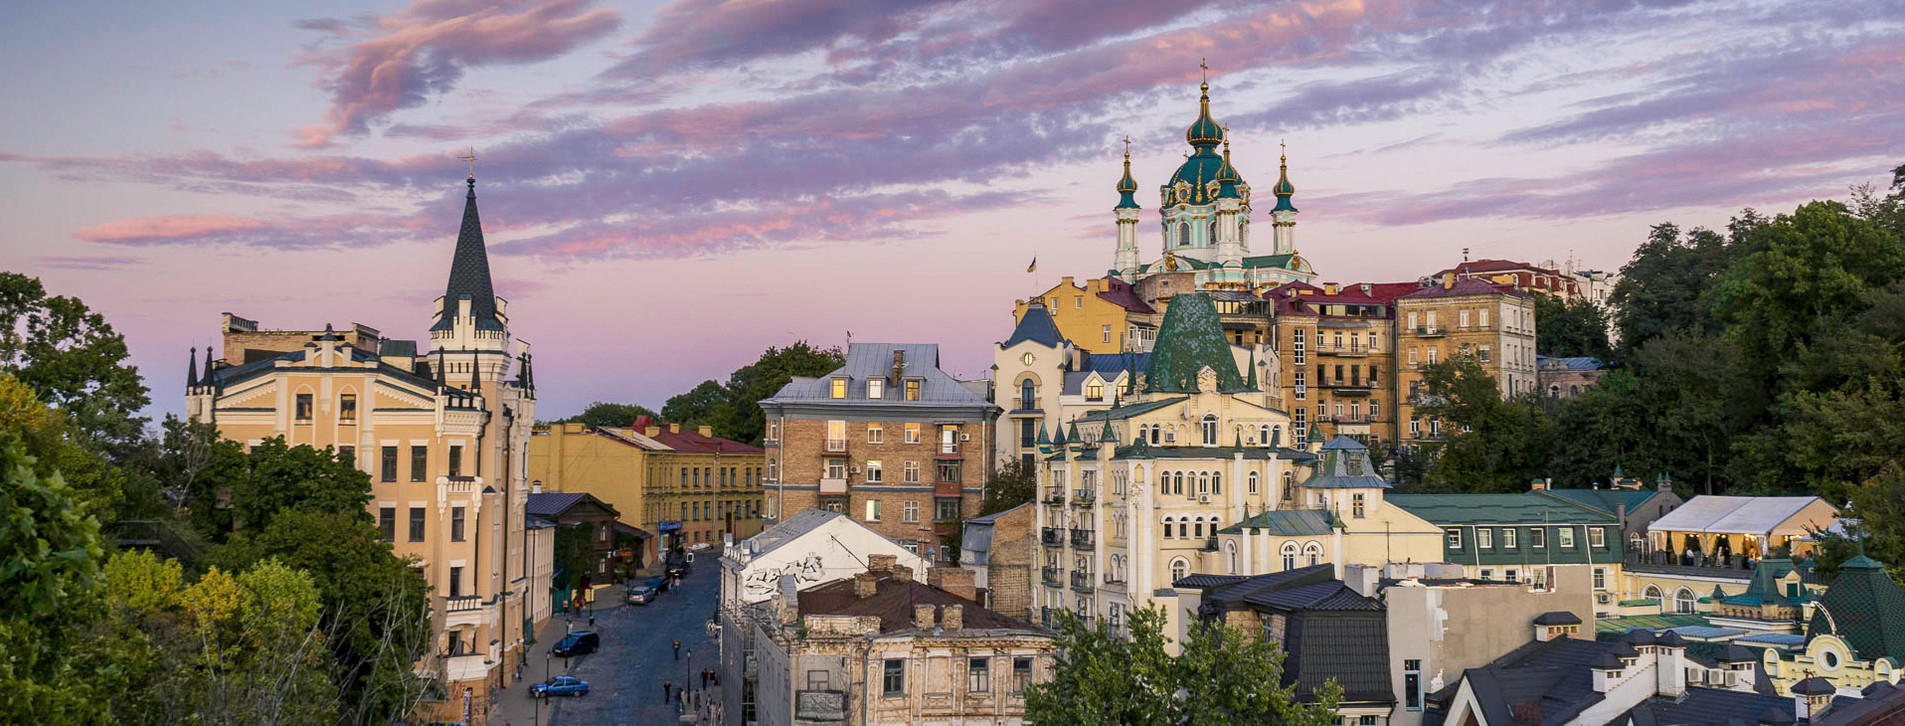
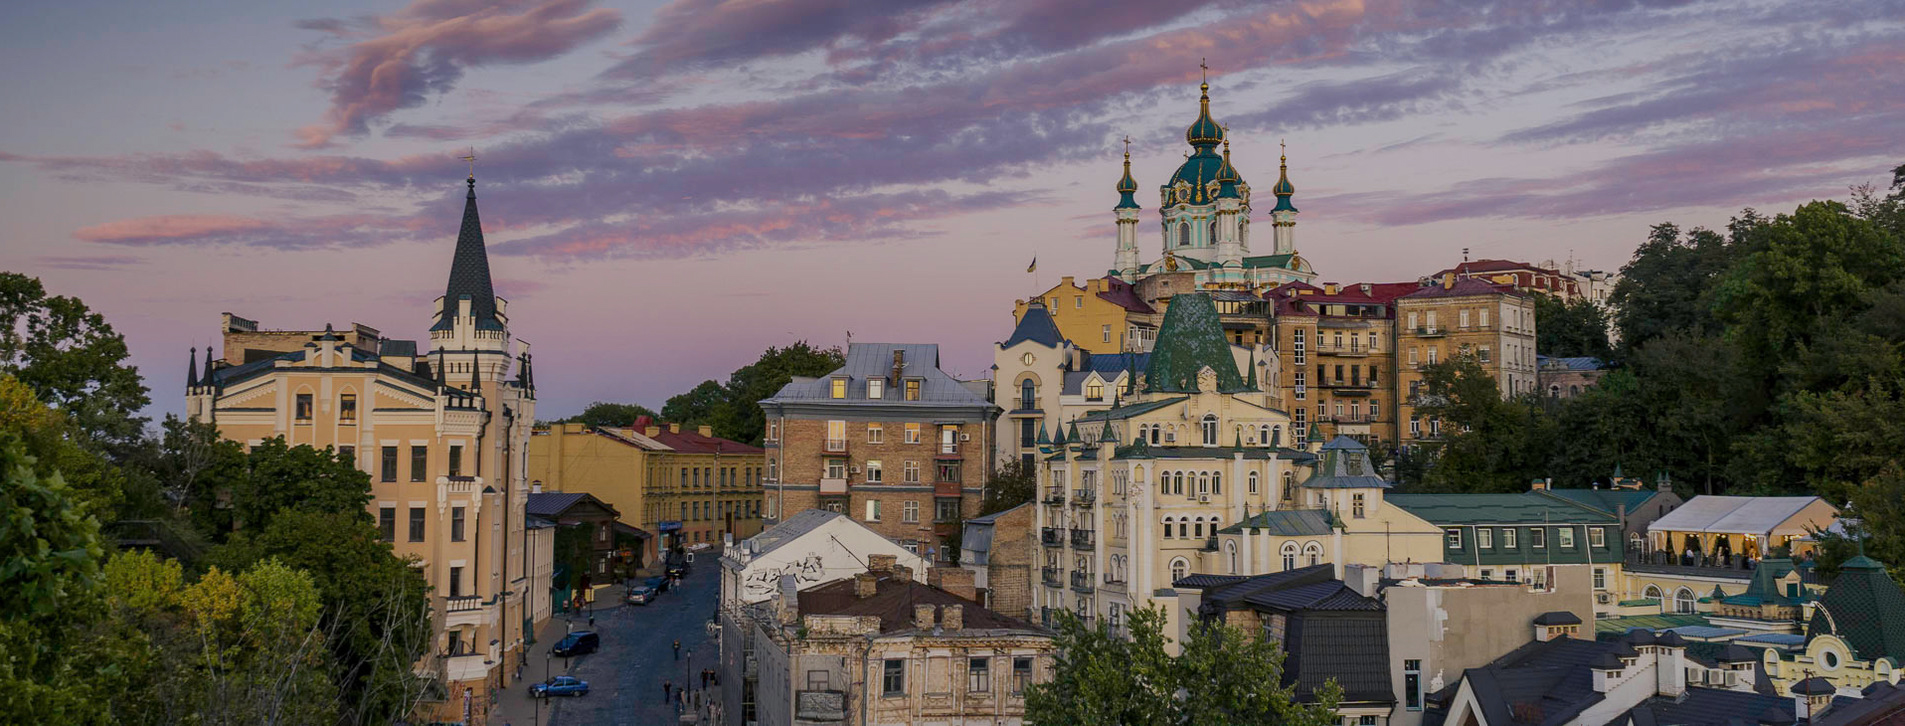
Test_002

diff --git a/src/main/webapp/resources/css/Start_List_Test.css b/src/main/webapp/resources/css/Start_List_Test.css
@@ -352,8 +352,6 @@ hr {
     margin-top: 25px;
     font-family: sans-serif;
     float: inherit;
-    /*margin-top: 180px;*/
-
 }
 
 /* Cherch  */
@@ -367,7 +365,7 @@ hr {
     background-size: 100%;
     background-repeat: no-repeat;
     /*background-position-x: -80px;*/
-    color: white;
+    /*color: white;*/
     /*-webkit-text-stroke: 1px black;*/
     width: 100%;
     height: 80%;
@@ -377,9 +375,9 @@ hr {
     /*http://css.yoksel.ru/background-blend-mode!*/
     /*background-color: #848484;*/
     /*background-color: #A4A4A4;*/
-    background-color: #151515;
-    background-repeat: no-repeat;;
-    background-blend-mode: unset;
+    /*background-color: #151515;*/
+    background-repeat: no-repeat;
+    /*background-blend-mode: color-burn;*/
     border-radius: 6px;
 }
 

diff --git a/src/main/webapp/resources/css/STL.css b/src/main/webapp/resources/css/STL.css
@@ -87,7 +87,7 @@ h1 {
 .usMy{
     height: 110%;
     width: 100%;
-    background-image: url("/resources/img/usMy_1.jpeg");
+    background-image: url("/resources/img/usMy_3.jpeg");
     background-size: 100%;
     background-repeat: no-repeat;
     background-position: center;
@@ -374,10 +374,10 @@ hr {
 
     /*http://css.yoksel.ru/background-blend-mode!*/
     /*background-color: #848484;*/
-    background-color: #A4A4A4;
+    /*background-color: #A4A4A4;*/
     /*background-color: #151515;*/
     background-repeat: no-repeat;
-    background-blend-mode: color-burn;
+    /*background-blend-mode: color-burn;*/
     border-radius: 6px;
 }
 
